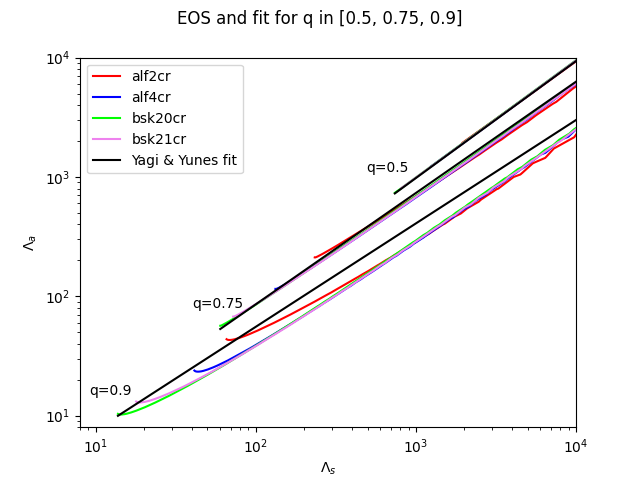
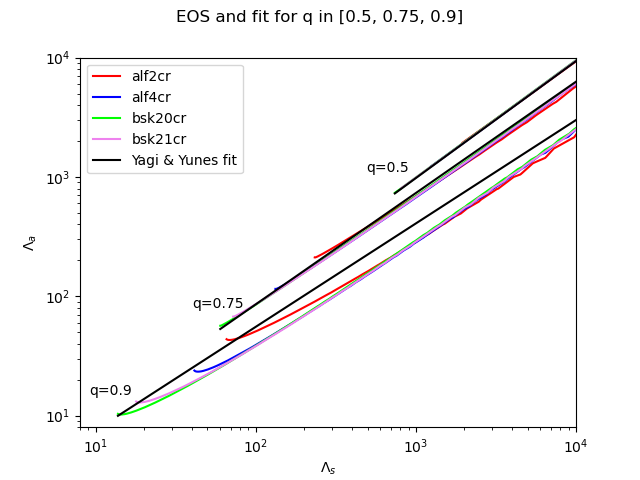
fixed plotting color and linestyle looping

Changed region(s): [[0.2812, 0.0, 0.7188, 0.0625], [0.3438, 0.625, 0.375, 0.6562], [0.25, 0.2188, 0.2812, 0.25]]

diff --git a/plotter.py b/plotter.py
@@ -37,7 +37,7 @@ class Plotter:
 
             for j, name in enumerate(self.names):
                 eos = dictionary[name]
-                color = self.colors[j % len(self.names)]
+                color = self.colors[j % len(self.colors)]
                 if i == 0:
                     label = name
                 eos.plot(ax=ax, label=label, color=color)
@@ -62,10 +62,10 @@ class Plotter:
         for i, q in enumerate(self.qs):
             dictionary = self.qs_dict[str(q)]
 
-            linestyle = self.linestyles[i % len(self.qs)]
+            linestyle = self.linestyles[i % len(self.linestyles)]
 
             for j, name in enumerate(self.names):
-                color = self.colors[j % len(self.names)]
+                color = self.colors[j % len(self.colors)]
 
                 x = dictionary[name].lambda_s
                 y = dictionary[name + '_residual']
